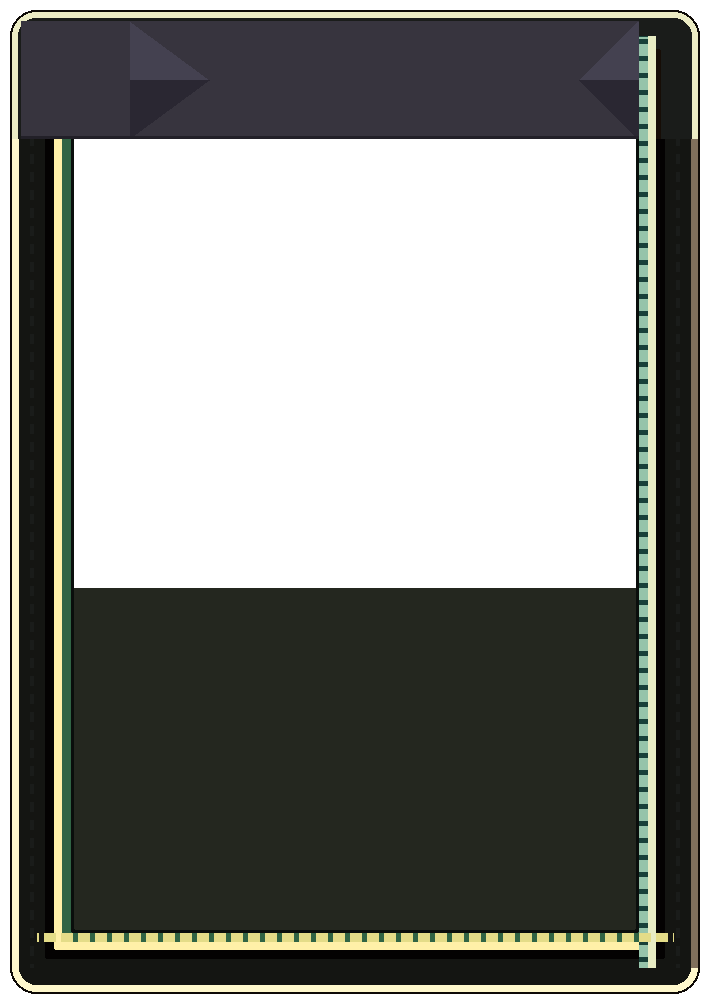
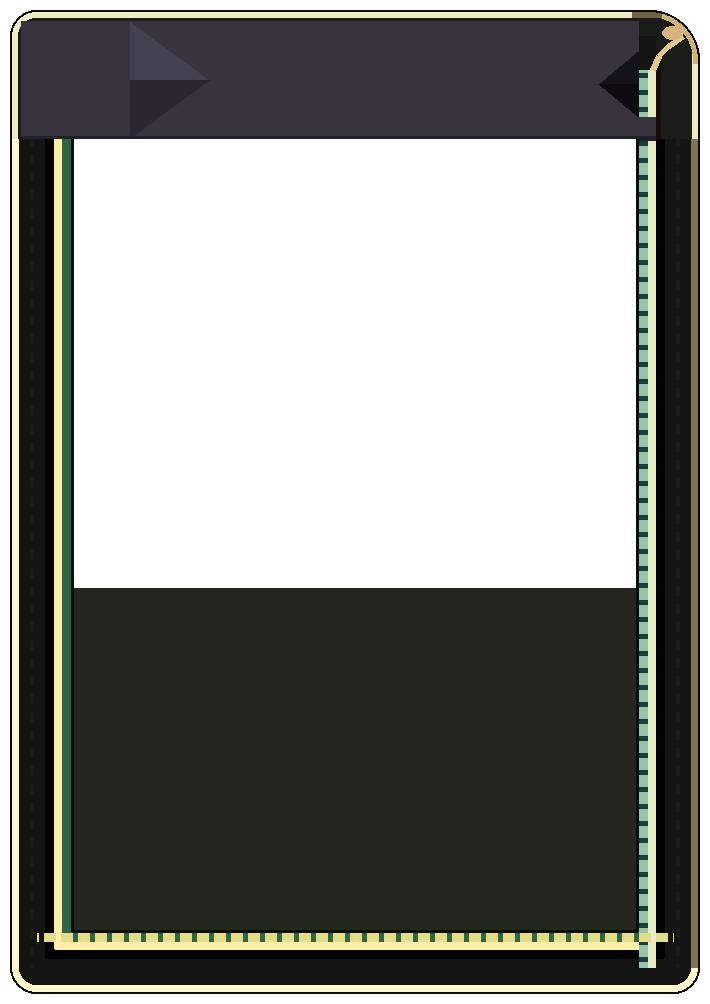
builder: Tongue Flick's top-right corner takes TARGET's curl, hook, knot and notch
Grader: VERDICT: PASS

Claude-Session: https://claude.ai/code/session_01EJE344zvaiKd8d77wjLWww

Changed region(s): [[0.8366, 0.0, 0.9915, 0.1544]]

diff --git a/tools/cardframe_target.py b/tools/cardframe_target.py
@@ -95,6 +95,20 @@ CHEV_X = (120, 200)      # px: the bevel's back edge (under the gem) and its ape
 CHEV_R = 60              # px: the right-hand bevel's depth
 CHEV_LIT = (68, 65, 80)
 CHEV_DARK = (42, 39, 50)
+NOTCH_R_LIT = (20, 18, 26)
+NOTCH_R_DARK = (14, 12, 18)
+CAP_DROP = 24
+NOTCH_TOP, NOTCH_FOOT, NOTCH_DEPTH = 30, 22, 40
+BREAK = 22
+CURL_R, CURL_W = 50, 5
+CURL_GOLD = (206, 178, 118)
+SHOULDER, SHOULDER_GOLD = 18, (112, 98, 70)
+STITCH_GAP = 10
+HOOK = [(W - 18, 26), (W - 32, 36), (W - 42, 46), (W - 48, 60)]
+HOOK_W = 6
+HOOK_GOLD = (228, 198, 134)
+KNOT = (W - 38, 16, W - 18, 29)
+KNOT_GOLD = (214, 180, 126)
 BAND_FROM = 11           # the name band starts inside the cream line, px
 ART_BG = (10, 11, 9)     # TARGET's art window behind an icon: near-black
 # A clear margin round the frame, px. The Compatibility renderer has no 2D
@@ -183,6 +197,54 @@ def build(flat=False):
         xe = int(rx1 + (rx0 - rx1) * k)
         if xe < rx0:
             a[y, xe:rx0, :3] = CHEV_LIT if y < mid else CHEV_DARK
+    # Run 9: on TARGET's Tongue Flick the right-hand notch is a small deep
+    # shadow, not a lit bevel; the stitch runs up beside it and its top hooks
+    # over into the outer rim at the corner, closing off the dark band.
+    # TARGET's notch is shallow and sits high; the band's foot runs right
+    # into the rail, breaking the stitch for a few px before it carries on
+    # down the card (measured at 1024 on Tongue Flick).
+    a[BAND_FROM:bb - 3, rx1:rx0, :3] = BAND
+    n0, n1 = BAND_FROM + NOTCH_TOP, bb - NOTCH_FOOT
+    nm = (n0 + n1) // 2
+    for y in range(n0, n1):
+        k = abs(y - nm) / max(1, nm - n0)
+        xe = int(rx0 - NOTCH_DEPTH * (1.0 - k))
+        if xe < rx0:
+            a[y, xe:rx0, :3] = NOTCH_R_LIT if y < nm else NOTCH_R_DARK
+    a[bb - BREAK:bb + 2, W - hi:W - b0, :3] = BAND
+    a[bb - 3:bb + 2, W - hi:W - b0, :3] = (34, 32, 40)
+    # (run 9, round 3: TARGET's stitch stops short below the curl, no cap)
+    a[RADIUS:RADIUS + CAP_DROP + STITCH_GAP, W - hi:W - b0, :3] = (20, 21, 18)
+    # ...and TARGET's top rule does not turn the corner square: it slopes
+    # down into a broad rounded curl, so the rim's top-right corner is cut
+    # back on a far larger radius than the others (zoomed 15x on TARGET).
+    def rr(inset, r):
+        m = Image.new("L", (W, H), 0)
+        ImageDraw.Draw(m).rounded_rectangle((inset, inset, W - 1 - inset, H - 1 - inset),
+                                            radius=max(2, r), fill=255)
+        return np.asarray(m) > 127
+    m0, m1, m2 = rr(0, CURL_R), rr(2, CURL_R - 2), rr(2 + CURL_W, CURL_R - 2 - CURL_W)
+    q = np.zeros((H, W), bool)
+    q[:CURL_R + 4, W - CURL_R - 4:] = True
+    a[q & ~m0, 3] = 0
+    a[q & m0 & ~m1, :3] = (14, 10, 6)
+    a[q & m1 & ~m2, :3] = CURL_GOLD
+    # a darker shoulder where the bright top rule meets the curl
+    xs = slice(W - CURL_R - SHOULDER, W - CURL_R + 12)
+    tp = a[:CURL_R, xs, :3]
+    lit = tp.astype(int).sum(2) > 300
+    tp[lit] = SHOULDER_GOLD
+    # TARGET's hook: a short gold stroke turns in from the curl and drops
+    # onto the stitch's top.
+    hk = Image.new("L", (W, H), 0)
+    ImageDraw.Draw(hk).line(HOOK, fill=255, width=HOOK_W)
+    hm = (np.asarray(hk) > 127) & m2
+    a[hm, :3] = HOOK_GOLD
+    # and the bright warm knot on the curl's outer bend
+    kn = Image.new("L", (W, H), 0)
+    ImageDraw.Draw(kn).ellipse(KNOT, fill=255)
+    km = (np.asarray(kn) > 127) & m0
+    a[km, :3] = KNOT_GOLD
     # The art window, behind the art: an icon's clear ground shows black.
     ab = int(ART_BOTTOM * H)
     a[bb:ab, top:W - top, :3] = ART_BG

diff --git a/design/plan/BUILDER-QUEUE.md b/design/plan/BUILDER-QUEUE.md
@@ -27,11 +27,11 @@ Matched check 2026-10-10 (run 7): both critics MODERATE on card frame borders; c
       Test: state=3d beast=cinder_jackal
       ![[agents/frames/builder/2026-10-10-slab4-after.png|420]] ^fourth-slab-from-the-top-target-s-left-e
 
-- [ ] **Tongue Flick's top-right corner: TARGET's curled gold rim.**
-      Next pass: run 7 (2026-10-10) grader FAIL x3, "no second gold stroke hooking back inside the rim; band should end in a sharp notch with a dark gap before the curl; right edge bows out" (VERDICT: FAIL, not further from TARGET); kept: the right rail runs up past the name band. Tried and reverted: a gold cap at a third of the band (error 9.63 -> 9.66, read as a dark square block) and a quarter-arc inner rule with the band run into it (9.95, read as a rounded box). FIX: TARGET's corner is two gold strokes with a dark channel between: draw the outer rim at a tighter radius and a second stroke that starts at the band's notch, hooks inward and runs down inside the right edge; check at 8x on TARGET's 1024 pixels before grading.
-      In TARGET the frame's gold rim curls back round Tongue Flick's top-right corner and the right edge bends slightly; the game's corner is a flat square cut. Critic B MODERATE (2026-10-10 run 7).
-      **Done when** the --square and --hand pairs show no visible difference at that corner.
-      Test: state=3d beast=cinder_jackal ^tongue-flick-s-top-right-corner-target-s
+- [ ] 👀 **Tongue Flick's top-right corner: TARGET's curled gold rim.**
+      ▶ [Test this now](obsidian://shell-commands/?vault=design&execute=fight-uri-beast&_beast=cinder_jackal) · [[BUILDER-QUEUE-NOTES#Tongue Flick's top-right corner: TARGET's curled gold rim.|details]]
+      Ask: nothing
+      Test: state=3d beast=cinder_jackal
+      ![[agents/frames/builder/2026-10-10-flickcorner-after.png|420]] ^tongue-flick-s-top-right-corner-target-s
 
 - [ ] **Energy box: TARGET's border and glow.**
       Next pass: run 7 (2026-10-10) grader FAIL x4, "glow tighter and fainter; border paler and thinner; pile icons darker" (VERDICT: FAIL, not further from TARGET); measured at 720: gold line now 2 px at (255,207,112) vs TARGET (255,207,113) with TARGET's dark inner edge, glow ramps left and right within ~3-10 levels, the glow under the box now fades as TARGET's (the backdrop had painted it out), box and pile rows on TARGET's exactly (571-652, 670-699), pile icon means within 2 levels; energy-area error at 720 9.8 -> 7.3. FIX: none left to build that the measurements show; re-check only in the Matched check.

diff --git a/design/plan/BUILDER-QUEUE-NOTES.md b/design/plan/BUILDER-QUEUE-NOTES.md
@@ -2886,6 +2886,12 @@ Found by measuring, not by eye: the jackal is TARGET's own pixels, so every crac
 - Grader: VERDICT: FAIL x1 (the gold inner curl at the rail's top, a thinner top rule).
 - Meshy: none.
 
+- 2026-10-10 run 9: zoomed TARGET's corner 15x at 1024. Its structure: the top rule slopes into a darker shoulder and a broad rounded curl (a far larger radius than the other corners) with a tan knot where a short gold hook turns in and drops onto the stitch; the stitch's upper run is short, starting below the hook; a small deep notch ends the name band beside it; the band's foot runs into the rail and breaks the stitch before it carries on down.
+- tools/cardframe_target.py, all inside the 80 px right patch margin: CURL_R 50 / CURL_W 5 cut-back corner in CURL_GOLD, SHOULDER on the top rule, HOOK polyline and KNOT ellipse, NOTCH_R_LIT/DARK notch (NOTCH_TOP/FOOT/DEPTH), STITCH_GAP under the hook and BREAK at the band's foot. The run 7 lit right-hand chevron is painted over with band colour.
+- Grader: FAIL x3 (a square gold cap; then a thick wide arch with the stitch running to the top; then a wide double arch with no knot), then PASS (MINOR only, at 7-15x: knot ~1 px large, notch a touch faint).
+- Grader: VERDICT: PASS.
+- Meshy: none.
+
 ## Energy box: TARGET's border and glow.
 
 - 2026-10-10 run 7: queued from the Matched check (both critics MINOR).

diff --git a/design/agents/status/builder.md b/design/agents/status/builder.md
@@ -13,13 +13,13 @@ The one lane that builds. Queue: [[../../plan/BUILDER-QUEUE]]. Brief:
 
 ## This run
 
-2026-10-10 04:21 EDT
+2026-10-10 04:32 EDT
 
-- **Did:** Rebuilt the card rails: gold inner rule, olive-bead stitch, teal right rail, solid rail on the middle card.
-- **Worked?** Yes. VERDICT: PASS (MINOR only, visible at 3x zoom).
-- **Look at:** ![[frames/builder/2026-10-10-frames2-before.png]] then ![[frames/builder/2026-10-10-frames2-after.png]]
+- **Did:** Card rails matched TARGET, then Tongue Flick's top-right corner given TARGET's curl, hook, knot and notch.
+- **Worked?** Yes, both. VERDICT: PASS (frames, MINOR only); VERDICT: PASS (corner, MINOR only at 7-15x).
+- **Look at:** ![[frames/builder/2026-10-10-flickcorner-before.png]] then ![[frames/builder/2026-10-10-flickcorner-after.png]]
 - **Ask:** nothing
-- **Found:** the outer rule reads a touch grey-cream against TARGET's gold-cream at 3x zoom.
+- **Found:** the outer rule reads a touch grey-cream against TARGET's gold-cream at 3x zoom; Tongue Flick sits ~1-2 px low against TARGET.
 
 ## Notes
 
